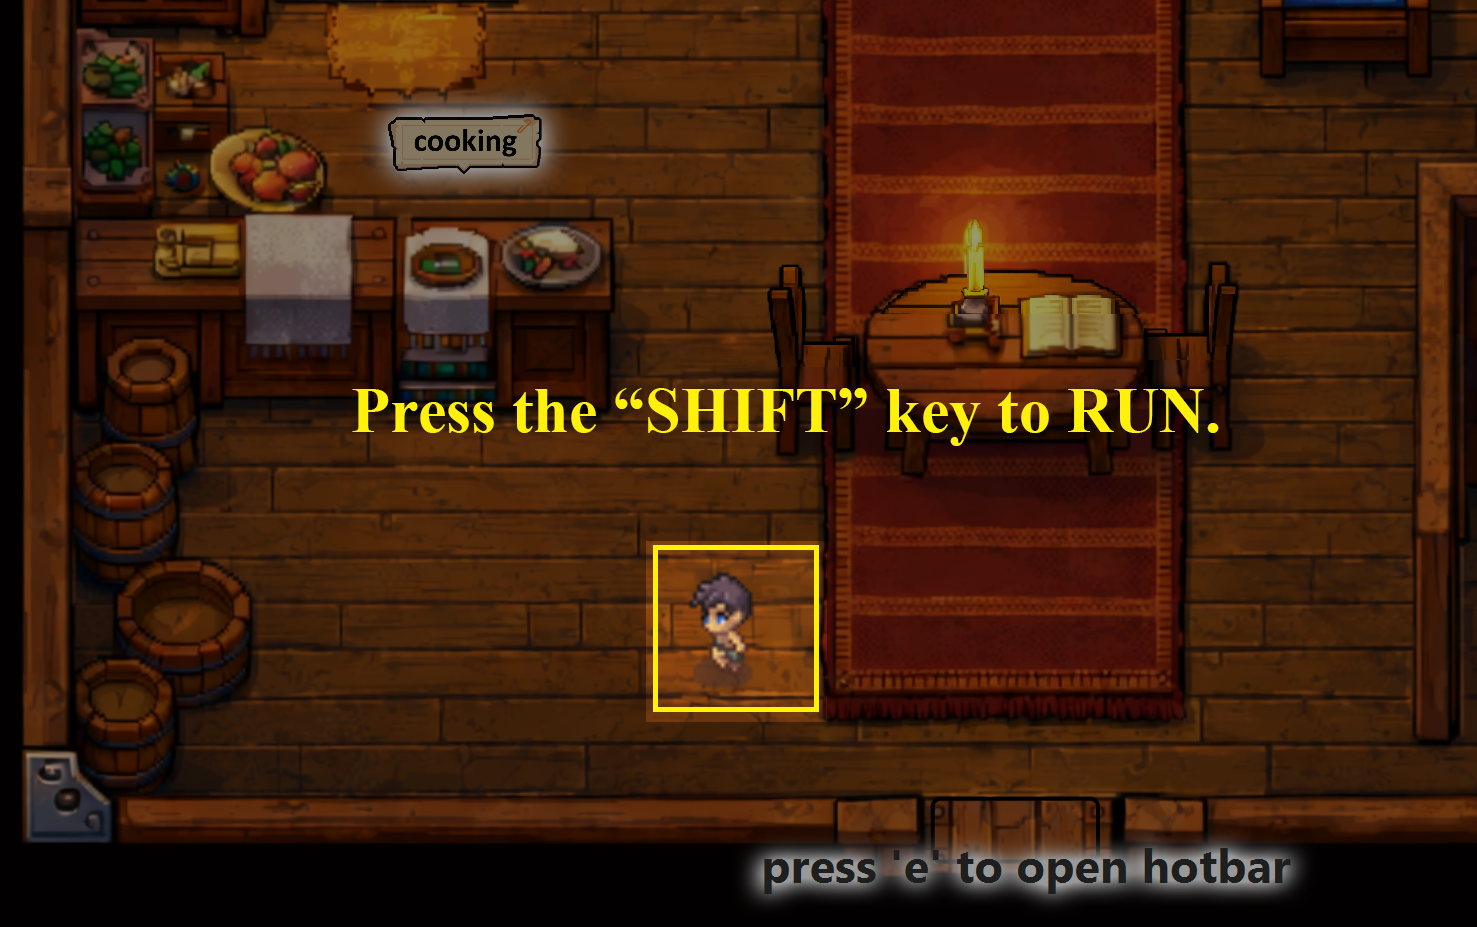
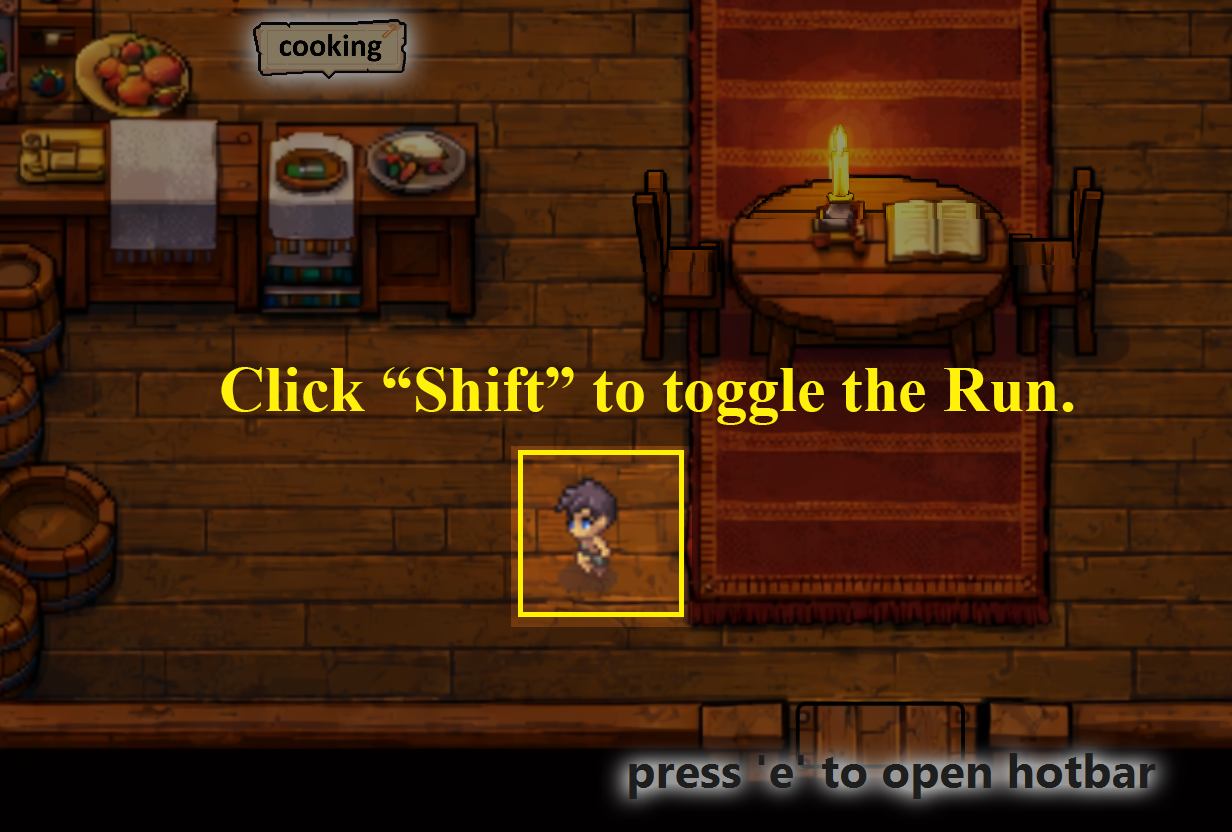
tuto
fixed

diff --git a/src/controller/Home_interiorController.java b/src/controller/Home_interiorController.java
@@ -72,12 +72,16 @@ public class Home_interiorController extends BaseMapController {
     private static final List<String> HOME_TUTORIAL_IMAGE_PATHS = List.of(
         "/image/Toturial/Move.png",
         "/image/Toturial/Run.png",
-        "/image/Toturial/Craft.png",
-        "/image/Toturial/Cooking.png",
-        "/image/Toturial/Chest.png",
-        "/image/Toturial/Melting.png",
-        "/image/Toturial/Sleep.png",
-        "/image/Toturial/Up_bar.png"
+        "/image/Toturial/before_goes_to_hotbar.png",
+        "/image/Toturial/goes_to_hotbar.png",
+        "/image/Toturial/Menu.png",
+        "/image/Toturial/Inventory.png",
+        "/image/Toturial/Stats.png",
+        "/image/Toturial/Upgrade Stats.png",
+        "/image/Toturial/Skill.png",
+        "/image/Toturial/Upgrade Skill.png",
+        "/image/Toturial/Setting.png",
+        "/image/Toturial/Skill.png"
     );
     @FXML
     private ImageView bg;
@@ -1773,7 +1777,7 @@ public class Home_interiorController extends BaseMapController {
             view,
             gameState,
             "home_interior_chest_inside",
-            List.of("/image/Toturial/Chest_inside.png")
+            List.of("/image/Toturial/Chest Tutorial.png")
         );
     }
 
@@ -2154,7 +2158,15 @@ public class Home_interiorController extends BaseMapController {
 
     @FXML
     private void handlebtntutoaction(ActionEvent event) {
-        TutorialOverlayHelper.show(view, TutorialOverlayHelper.GLOBAL_BUTTON_TUTORIAL_IMAGES);
+        // Check if the chest interface is currently open/visible
+        if (chestStackPane != null && chestStackPane.isVisible()) {
+            // Show only the specific chest tutorial image
+            TutorialOverlayHelper.show(view, List.of("/image/Toturial/Chest Tutorial.png"));
+        } else {
+            // Otherwise, show the default global tutorial sequence
+            TutorialOverlayHelper.show(view, TutorialOverlayHelper.GLOBAL_BUTTON_TUTORIAL_IMAGES);
+        }
+
         if (event != null) {
             event.consume();
         }

diff --git a/src/controller/MeltController.java b/src/controller/MeltController.java
@@ -10,6 +10,7 @@ import java.util.Comparator;
 import java.util.List;
 import java.util.ResourceBundle;
 import javafx.animation.AnimationTimer;
+import javafx.application.Platform;
 import javafx.event.ActionEvent;
 import javafx.fxml.FXML;
 import javafx.fxml.Initializable;
@@ -31,8 +32,9 @@ import util.WorldScaler;
 public class MeltController implements Initializable, SceneController {
 
     private static final int MAX_INV_SLOTS = 20;
+    private static final String MELT_TUTORIAL_KEY = "melt_tutorial";
     private static final List<String> MELT_TUTORIAL_IMAGES = List.of(
-        "/image/Toturial/Melting.png"
+        "/image/Toturial/Melting Tutorial.png"
     );
 
     private GameState gameState;
@@ -142,6 +144,11 @@ public class MeltController implements Initializable, SceneController {
         wireStandaloneClicks();
         startUiTimer();
         refreshAll();
+        Platform.runLater(this::showMeltTutorialIfNeeded);
+    }
+
+    private void showMeltTutorialIfNeeded() {
+        TutorialOverlayHelper.showIfNeeded(view, gameState, MELT_TUTORIAL_KEY, MELT_TUTORIAL_IMAGES);
     }
 
     private void collectInventoryNodes() {
@@ -680,10 +687,8 @@ public class MeltController implements Initializable, SceneController {
 
     @FXML
     private void handlebtntutoaction(ActionEvent event) {
-        TutorialOverlayHelper.show(view, TutorialOverlayHelper.GLOBAL_BUTTON_TUTORIAL_IMAGES);
-        if (event != null) {
-            event.consume();
-        }
+        TutorialOverlayHelper.show(view, MELT_TUTORIAL_IMAGES);
+        if (event != null) event.consume();
     }
 
     private static final class SmeltRule {

diff --git a/src/controller/CraftController.java b/src/controller/CraftController.java
@@ -36,7 +36,7 @@ public class CraftController implements Initializable, SceneController {
     private static final int MAX_RECIPE_SLOTS = 20;
     private static final int DEFAULT_WAIT_SECONDS = 40;
     private static final List<String> CRAFT_TUTORIAL_IMAGES = List.of(
-        "/image/Toturial/Craft_inside.png"
+        "/image/Toturial/Craft Tutorial.png"
     );
 
     private GameState gameState;
@@ -490,10 +490,8 @@ public class CraftController implements Initializable, SceneController {
 
     @FXML
     private void handlebtntutoaction(ActionEvent event) {
-        TutorialOverlayHelper.show(view, TutorialOverlayHelper.GLOBAL_BUTTON_TUTORIAL_IMAGES);
-        if (event != null) {
-            event.consume();
-        }
+        TutorialOverlayHelper.show(view, List.of("/image/Toturial/Craft Tutorial.png"));
+        if (event != null) event.consume();
     }
 
     private static final class IngredientRequirement {

diff --git a/src/util/TutorialOverlayHelper.java b/src/util/TutorialOverlayHelper.java
@@ -27,13 +27,15 @@ public final class TutorialOverlayHelper {
         "/image/Toturial/Menu.png",
         "/image/Toturial/Inventory.png",
         "/image/Toturial/Stats.png",
+        "/image/Toturial/Upgrade Stats.png",
         "/image/Toturial/Skill.png",
+        "/image/Toturial/Upgrade Skill.png",
         "/image/Toturial/Setting.png",
         "/image/Toturial/Skill.png",
-        "/image/Toturial/Croping.png",
-        "/image/Toturial/Croping Using Axe.png",
+        "/image/Toturial/Chopping.png",
+        "/image/Toturial/Chopping Using Axe.png",
         "/image/Toturial/Mining.png",
-        "/image/Toturial/Mining Using Pickaxe.png"
+        "/image/Toturial/Mining Using Pickaxe.png"     
     );
 
     private TutorialOverlayHelper() {

diff --git a/src/controller/CookController.java b/src/controller/CookController.java
@@ -587,10 +587,8 @@ public class CookController implements Initializable, SceneController {
 
     @FXML
     private void handlebtntutoaction(ActionEvent event) {
-        TutorialOverlayHelper.show(view, TutorialOverlayHelper.GLOBAL_BUTTON_TUTORIAL_IMAGES);
-        if (event != null) {
-            event.consume();
-        }
+        TutorialOverlayHelper.show(view, List.of("/image/Toturial/Cooking Tutorial.png"));
+        if (event != null) event.consume();
     }
 
     private static final class RecipeDifficulty {
